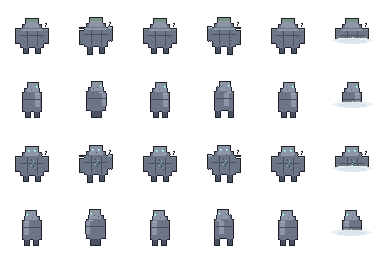
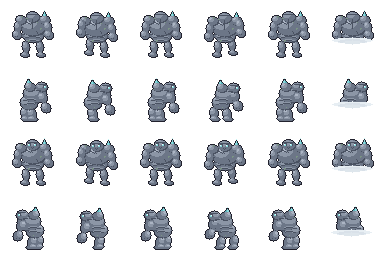
v0.2.7: Skystone Golem rebuilt on vanilla creature construction
Organic overlapping boulder masses with per-mass volumetric shading
(replacing stacked rectangles), ribbed belly plates, articulated stomp
walk, sunken head with brow ledge + glowing socket eyes, hunched
ape-posture profile with a leading ground arm, solid crystal spur.
Style guide gains the creature-construction rule.

Claude-Session: https://claude.ai/code/session_01ECshWeaHvbw9WiaSm6LA5Y

diff --git a/tools/asset_generator/gen_mobs.py b/tools/asset_generator/gen_mobs.py
@@ -112,99 +112,136 @@ def gen_zephyrray(path):
 
 # --- Skystone Golem ----------------------------------------------------------
 
+def _stone(c, cx, cy, rx, ry, r):
+    """One volumetric boulder: deep crescent lower-right, base mass, light
+    upper-left sheen — the vanilla 'round overlapping masses' construction."""
+    c.ellipse(cx + 1, cy + 1, rx, ry, r["deep"])
+    c.ellipse(cx, cy, rx, ry, r["base"])
+    c.ellipse(cx - rx * 0.28, cy - ry * 0.28, rx * 0.62, ry * 0.6, r["light"])
+    c.ellipse(cx - rx * 0.42, cy - ry * 0.45, rx * 0.3, ry * 0.26, r["hi"])
+
+
 def _golem_frame(facing, step, swim=False):
-    """facing: 'up' | 'right' | 'down'. step in -1..1 shifts legs/arms."""
+    """Skystone Golem rebuilt from organic boulder masses (goblin-construction
+    bar): articulated stomp walk, sunken head under a heavy brow, glowing
+    eyes, cracks, moss and an aetherium spur."""
     c = Canvas(CELL, CELL)
     r = palette.GOLEM
+    aeth = palette.AETHERIUM
     cx = 32
-    feet_y = 54
-    bob = 1 if step != 0 else 0
-    top = 18 - bob
+    feet_y = 55
+    stomp = 1 if step != 0 else 0
+
     if facing in ("up", "down"):
-        # legs
+        # --- legs: stout boulders with foot masses, one lifted per stride ---
         if not swim:
-            c.rect(cx - 9, feet_y - 8, 6, 8 + (1 if step > 0 else 0), r["deep"])
-            c.rect(cx + 3, feet_y - 8, 6, 8 + (1 if step < 0 else 0), r["deep"])
-        # torso: massive slab, narrower hips
-        c.rect(cx - 12, top + 10, 24, 20, r["base"])
-        c.rect(cx - 10, top + 6, 20, 6, r["base"])
-        # arms: heavy stone fists at the sides
-        arm_shift = step * 2
-        c.rect(cx - 17, top + 11 + arm_shift, 5, 15, r["base"])
-        c.rect(cx + 12, top + 11 - arm_shift, 5, 15, r["base"])
-        # head block
-        c.rect(cx - 7, top, 14, 10, r["light"])
-    else:  # right profile
-        if not swim:
-            front = 2 * step
-            c.rect(cx - 7 + front, feet_y - 8, 6, 8, r["deep"])
-            c.rect(cx + 2 - front, feet_y - 8, 6, 8, r["deep"])
-        c.rect(cx - 10, top + 10, 20, 20, r["base"])
-        c.rect(cx - 8, top + 6, 16, 6, r["base"])
-        arm_swing = 3 * step
-        c.rect(cx + 3 + arm_swing, top + 12, 5, 13, r["light"])
-        c.rect(cx - 5, top, 12, 10, r["light"])
-        c.put(cx - 2, top + 24, r["moss"])
-    # armor plate seams: the torso reads as fitted stone slabs, not one box
-    if facing in ("up", "down"):
-        for dx in range(-12, 12):
-            c.put(cx + dx, top + 17, r["deep"])
-        for sy in range(top + 11, top + 29):
-            c.put(cx - 5, sy, r["deep"])
-            c.put(cx + 5, sy, r["deep"])
-        # pauldron caps on the arms
-        for ax in (cx - 17, cx + 12):
-            for dx in range(5):
-                c.put(ax + dx, top + 10, r["hi"])
-                c.put(ax + dx, top + 11, r["light"])
-        # aetherium crystal spur on the right shoulder
-        spur_x = cx + 13
-        for i in range(4):
-            c.put(spur_x + i // 2, top + 8 - i, palette.AETHERIUM["base"])
-        c.put(spur_x, top + 5, palette.AETHERIUM["hi"])
-        # knuckle grooves on the fists
-        for ax in (cx - 16, cx + 13):
-            c.put(ax, top + 24, r["deep"])
-            c.put(ax + 2, top + 24, r["deep"])
-    else:
-        for dx in range(-10, 10):
-            c.put(cx + dx, top + 17, r["deep"])
-        c.put(cx - 3, top + 12, r["deep"])
-        for dx in range(4):
-            c.put(cx + 3 + dx, top + 11, r["hi"])
-    # weathering speckle + moss clumps
-    rng = Rng(0x601E + (1 if facing == "up" else 2 if facing == "right" else 3) * 97 + (step + 2) * 31)
-    for _ in range(8):
-        x = rng.range(cx - 12, cx + 12)
-        y = rng.range(top, feet_y - 6)
-        if c.filled(x, y):
-            c.put(x, y, r["deep"] if rng.chance(0.7) else r["moss"])
-    for _ in range(2):
-        mx = rng.range(cx - 11, cx + 9)
-        my = rng.range(top + 2, top + 8)
-        if c.filled(mx, my):
+            for side, s in ((-1, step), (1, -step)):
+                lx = cx + side * 7
+                lift = 2 if s > 0 else 0
+                _stone(c, lx, feet_y - 9 - lift, 4, 6, r)   # overlaps the belly
+                _stone(c, lx + side, feet_y - 1 - lift, 4.5, 2.5, r)  # foot
+        # --- torso: big chest boulder over a ribbed belly stone ---
+        _stone(c, cx, feet_y - 21, 11, 8, r)          # belly
+        for i, by in enumerate((feet_y - 24, feet_y - 20, feet_y - 16)):
+            half = 10 - i * 2
+            for dx in range(-half, half + 1):
+                arc = by + (abs(dx) // 4)
+                c.put(cx + dx, arc, r["light"])       # plate ridge
+                c.put(cx + dx, arc + 1, r["deep"])    # plate seam
+        _stone(c, cx, feet_y - 30 + stomp, 13, 10, r)  # chest
+        # --- arms: shoulder cap, forearm, fist boulder (swing vs legs) ---
+        for side, s in ((-1, -step), (1, step)):
+            sw = round(s * 2)
+            ax = cx + side * 15
+            _stone(c, cx + side * 12, feet_y - 36 + stomp, 5.5, 4.5, r)  # shoulder cap
+            _stone(c, ax, feet_y - 29 + sw, 4, 5, r)                      # upper arm
+            _stone(c, ax + side, feet_y - 21 + sw, 4.5, 4.5, r)           # fist
+            c.put(ax + side - 1, feet_y - 19 + sw, r["deep"])             # knuckles
+            c.put(ax + side + 1, feet_y - 19 + sw, r["deep"])
+        # --- head: sunk between the shoulders, heavy brow ledge ---
+        head_y = feet_y - 39 + stomp
+        _stone(c, cx, head_y, 6.5, 5.5, r)
+        for dx in range(-5, 6):                                           # brow ledge
+            c.put(cx + dx, head_y - 2, r["deep"])
+            if -4 <= dx <= 4:
+                c.put(cx + dx, head_y - 3, r["light"])
+        # --- cracks on the chest ---
+        crx, cry = cx - 6, feet_y - 33 + stomp
+        for i in range(7):
+            c.put(crx + i, cry + (i // 2) - (1 if i > 4 else 0), r["deep"])
+        c.put(cx + 4, feet_y - 24, r["deep"])
+        c.put(cx + 5, feet_y - 23, r["deep"])
+        c.put(cx + 5, feet_y - 22, r["deep"])
+        # --- moss clumps on upper surfaces ---
+        for (mx, my) in ((cx - 11, feet_y - 39 + stomp), (cx + 8, feet_y - 27), (cx - 4, feet_y - 15)):
             c.put(mx, my, r["moss"])
             c.put(mx + 1, my, r["moss"])
-            c.put(mx, my - 1, r["moss"])
-    c.shade_topleft(r["hi"], r["deep"])
-    c.outline(palette.OUTLINE)
-    # face details go on AFTER shading/outline so they stay readable
-    if facing == "down":
-        c.rect(cx - 4, top + 4, 2, 2, r["eye"])
-        c.rect(cx + 2, top + 4, 2, 2, r["eye"])
-        c.put(cx - 4, top + 4, (240, 252, 252))
-        c.put(cx + 2, top + 4, (240, 252, 252))
-        # cracked chest rune, glowing faintly
-        c.line(cx - 1, top + 13, cx + 1, top + 21, r["deep"])
-        c.put(cx, top + 17, r["eye"])
-        c.put(cx - 1, top + 19, r["eye"])
-        c.put(cx + 1, top + 15, r["eye"])
-    elif facing == "up":
-        c.rect(cx - 6, top + 1, 12, 3, r["moss"])
-        c.rect(cx - 11, top + 11, 22, 2, r["light"])
-    else:
-        c.rect(cx + 4, top + 4, 2, 2, r["eye"])
-        c.put(cx + 4, top + 4, (240, 252, 252))
+            c.put(mx, my + 1, r["moss"])
+        # --- aetherium spur cluster on the right shoulder ---
+        spx = cx + 12
+        spy = feet_y - 40 + stomp
+        for i in range(5):                      # solid crystal wedge (3px base)
+            w = max(0, 2 - i // 2)
+            for dx in range(-w, w + 1):
+                c.put(spx + dx, spy - i, aeth["light"] if dx <= 0 else aeth["base"])
+        c.outline(palette.OUTLINE)
+        c.put(spx, spy - 5, aeth["hi"])         # crystal tip glint
+        # --- face AFTER outline ---
+        if facing == "down":
+            for ex in (cx - 4, cx + 2):
+                c.rect(ex, head_y - 1, 3, 3, r["deep"])                   # socket
+                c.rect(ex, head_y, 2, 2, r["eye"])                        # glow
+                c.put(ex, head_y, (240, 252, 252))                        # pupil
+            for i in range(3):                                            # jaw crack
+                c.put(cx - 1 + i, head_y + 3 + (i % 2), r["deep"])
+        else:  # up: back plate seam + moss instead of a face
+            for dy in range(-1, 9):
+                c.put(cx, head_y + dy + 4, r["deep"])
+            c.put(cx - 6, head_y + 2, r["moss"])
+            c.put(cx - 5, head_y + 2, r["moss"])
+            c.put(cx + 5, head_y + 6, r["moss"])
+    else:  # right profile: hunched ape posture, big leading arm (ash-golem bar)
+        if not swim:
+            front = 3 * step
+            _stone(c, cx - 8 + front, feet_y - 7, 4.5, 6, r)     # rear leg
+            _stone(c, cx - 7 + front, feet_y - 1, 5, 2.5, r)
+            _stone(c, cx - 1 - front, feet_y - 6, 4.5, 6, r)     # front leg
+            _stone(c, cx - front, feet_y - 1, 5, 2.5, r)
+        _stone(c, cx - 4, feet_y - 17, 9, 7, r)                  # haunch
+        _stone(c, cx + 2, feet_y - 26 + stomp, 12, 9, r)         # chest, leaning fwd
+        for i, by in enumerate((feet_y - 21, feet_y - 17)):      # rib plates
+            for dx in range(-7 + i, 6 - i):
+                c.put(cx - 2 + dx, by + abs(dx) // 4, r["light"])
+                c.put(cx - 2 + dx, by + abs(dx) // 4 + 1, r["deep"])
+        _stone(c, cx - 3, feet_y - 33 + stomp, 5.5, 4.5, r)      # rear shoulder hump
+        # leading arm: reaches forward and down to the ground
+        sw = round(step * 2)
+        _stone(c, cx + 10, feet_y - 22 + sw, 4.5, 5.5, r)        # upper arm
+        _stone(c, cx + 13, feet_y - 12 + sw, 5, 5, r)            # fist near ground
+        c.put(cx + 12, feet_y - 9 + sw, r["deep"])               # knuckles
+        c.put(cx + 15, feet_y - 9 + sw, r["deep"])
+        # head juts forward from the chest
+        head_y = feet_y - 33 + stomp
+        _stone(c, cx + 9, head_y, 6, 5, r)
+        for dx in range(-3, 6):
+            c.put(cx + 9 + dx, head_y - 2, r["deep"])            # brow ledge
+            c.put(cx + 9 + dx, head_y - 3, r["light"])
+        for dx in range(-2, 3):                                  # neck shadow
+            c.put(cx + 6 + dx, head_y + 4, r["deep"])
+        # spur on the rear shoulder + moss
+        spx, spy = cx - 4, feet_y - 37 + stomp
+        for i in range(4):
+            w = max(0, 2 - i // 2)
+            for dx in range(-w, w + 1):
+                c.put(spx + dx, spy - i, aeth["light"] if dx <= 0 else aeth["base"])
+        c.put(cx - 8, feet_y - 30, r["moss"])
+        c.put(cx - 7, feet_y - 30, r["moss"])
+        c.put(cx - 2, feet_y - 12, r["moss"])
+        c.outline(palette.OUTLINE)
+        c.put(spx, spy - 4, aeth["hi"])
+        c.rect(cx + 11, head_y - 1, 3, 3, r["deep"])             # deep socket
+        c.rect(cx + 12, head_y, 2, 2, r["eye"])
+        c.put(cx + 12, head_y, (240, 252, 252))
     if swim:
         _mist_overlay(c)
     return c

diff --git a/CHANGELOG.md b/CHANGELOG.md
@@ -3,6 +3,21 @@
 All notable changes to this project are documented here. Format loosely follows
 [Keep a Changelog](https://keepachangelog.com); versions follow the ROADMAP milestones.
 
+## [0.2.7] — 2026-08-23
+
+### Changed
+- **Skystone Golem rebuilt from scratch** on vanilla mob construction
+  principles (studied from the game's own heavy creatures): the body is now
+  organic overlapping boulder masses with per-mass volumetric shading instead
+  of stacked rectangles. Ribbed armor plates across the belly, shoulder-cap
+  stones, articulated stomp walk (legs lift, arms swing), a head sunk between
+  the shoulders under a heavy brow ledge with deep eye sockets and glowing
+  pupils, chest cracks, moss clumps and a solid aetherium crystal spur with a
+  lit tip. The profile view is a proper hunched ape posture with a big
+  leading arm reaching toward the ground.
+- Style guide gains the "round overlapping masses" construction rule; the
+  same template is earmarked for the Ashen Reach creatures of v0.3.
+
 ## [0.2.6] — 2026-08-23
 
 The "living world" release: light is safe again, the sky gets wildlife and

diff --git a/docs/assets-style-guide.md b/docs/assets-style-guide.md
@@ -25,7 +25,13 @@ eyes, sparse electric accents. Stripe and crescent-moon motifs are welcome as
 deco accents. Reference/mood material stays outside the repo — docs describe the
 direction generically, never brands or franchises.
 
-Two construction rules learned from vanilla:
+Three construction rules learned from vanilla:
+
+- **Creatures = round overlapping masses, never stacked rectangles.** Bodies
+  are built from volumetric blobs (deep crescent lower-right, base mass, light
+  upper-left sheen per mass), limbs are distinct articulated shapes, faces get
+  sockets + brow + pupil, and walk frames re-pose limbs instead of shifting
+  boxes. Heavy creatures gain ribbed plate bands for texture identity.
 
 - **Terrain = calm base + per-variant feature clusters.** The four full-variant
   cells of a splat each carry their own small motif (tufts, a fissure, a moss
